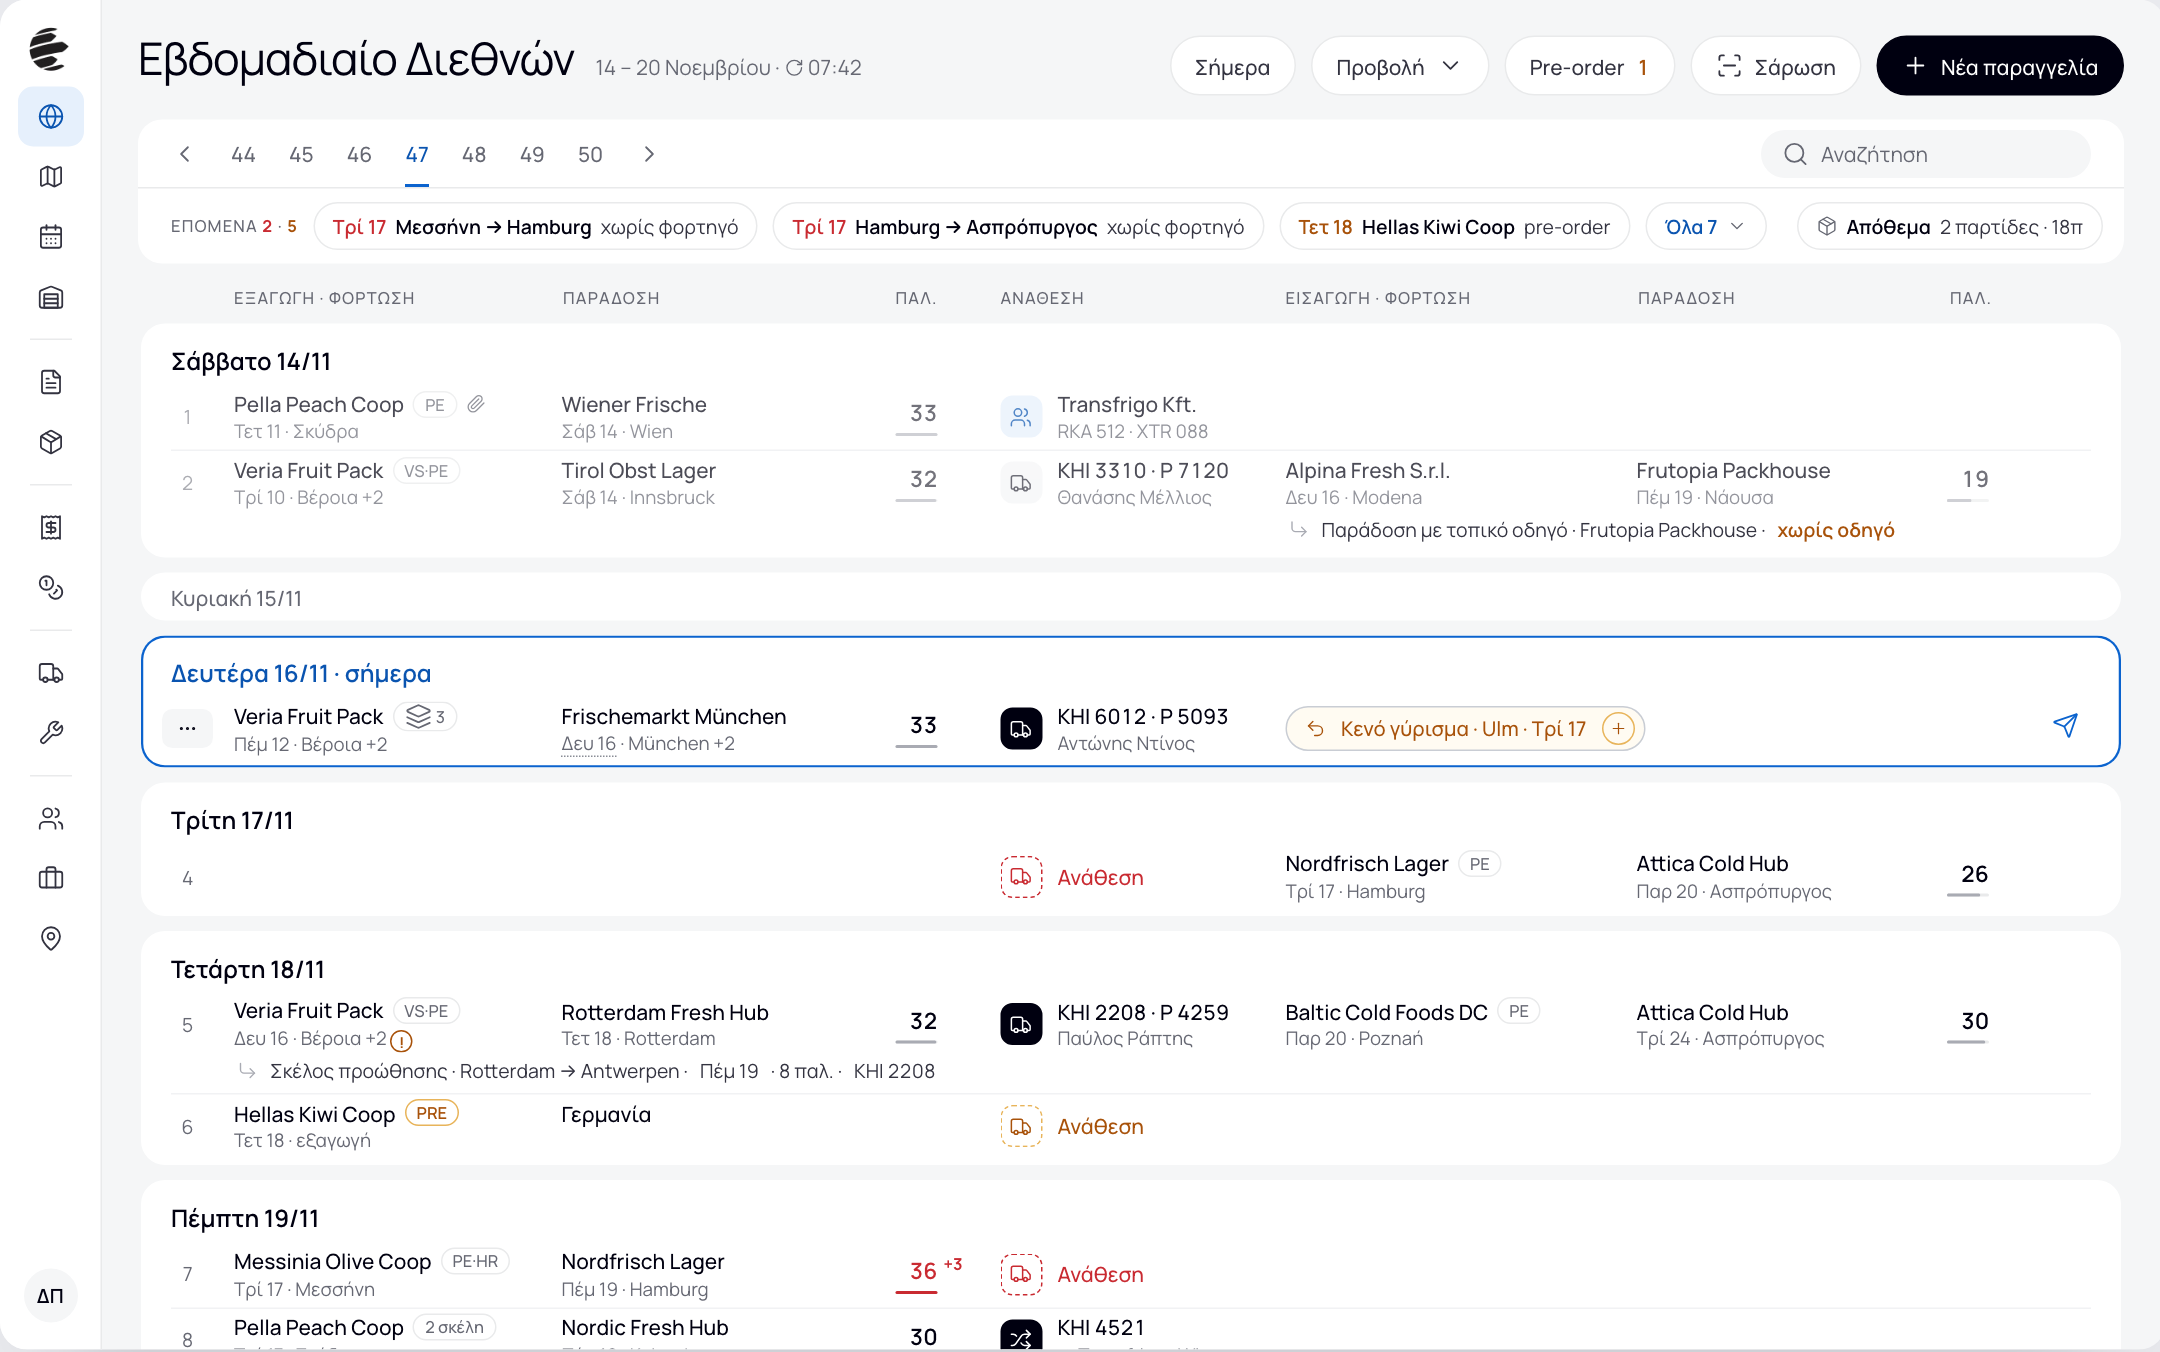
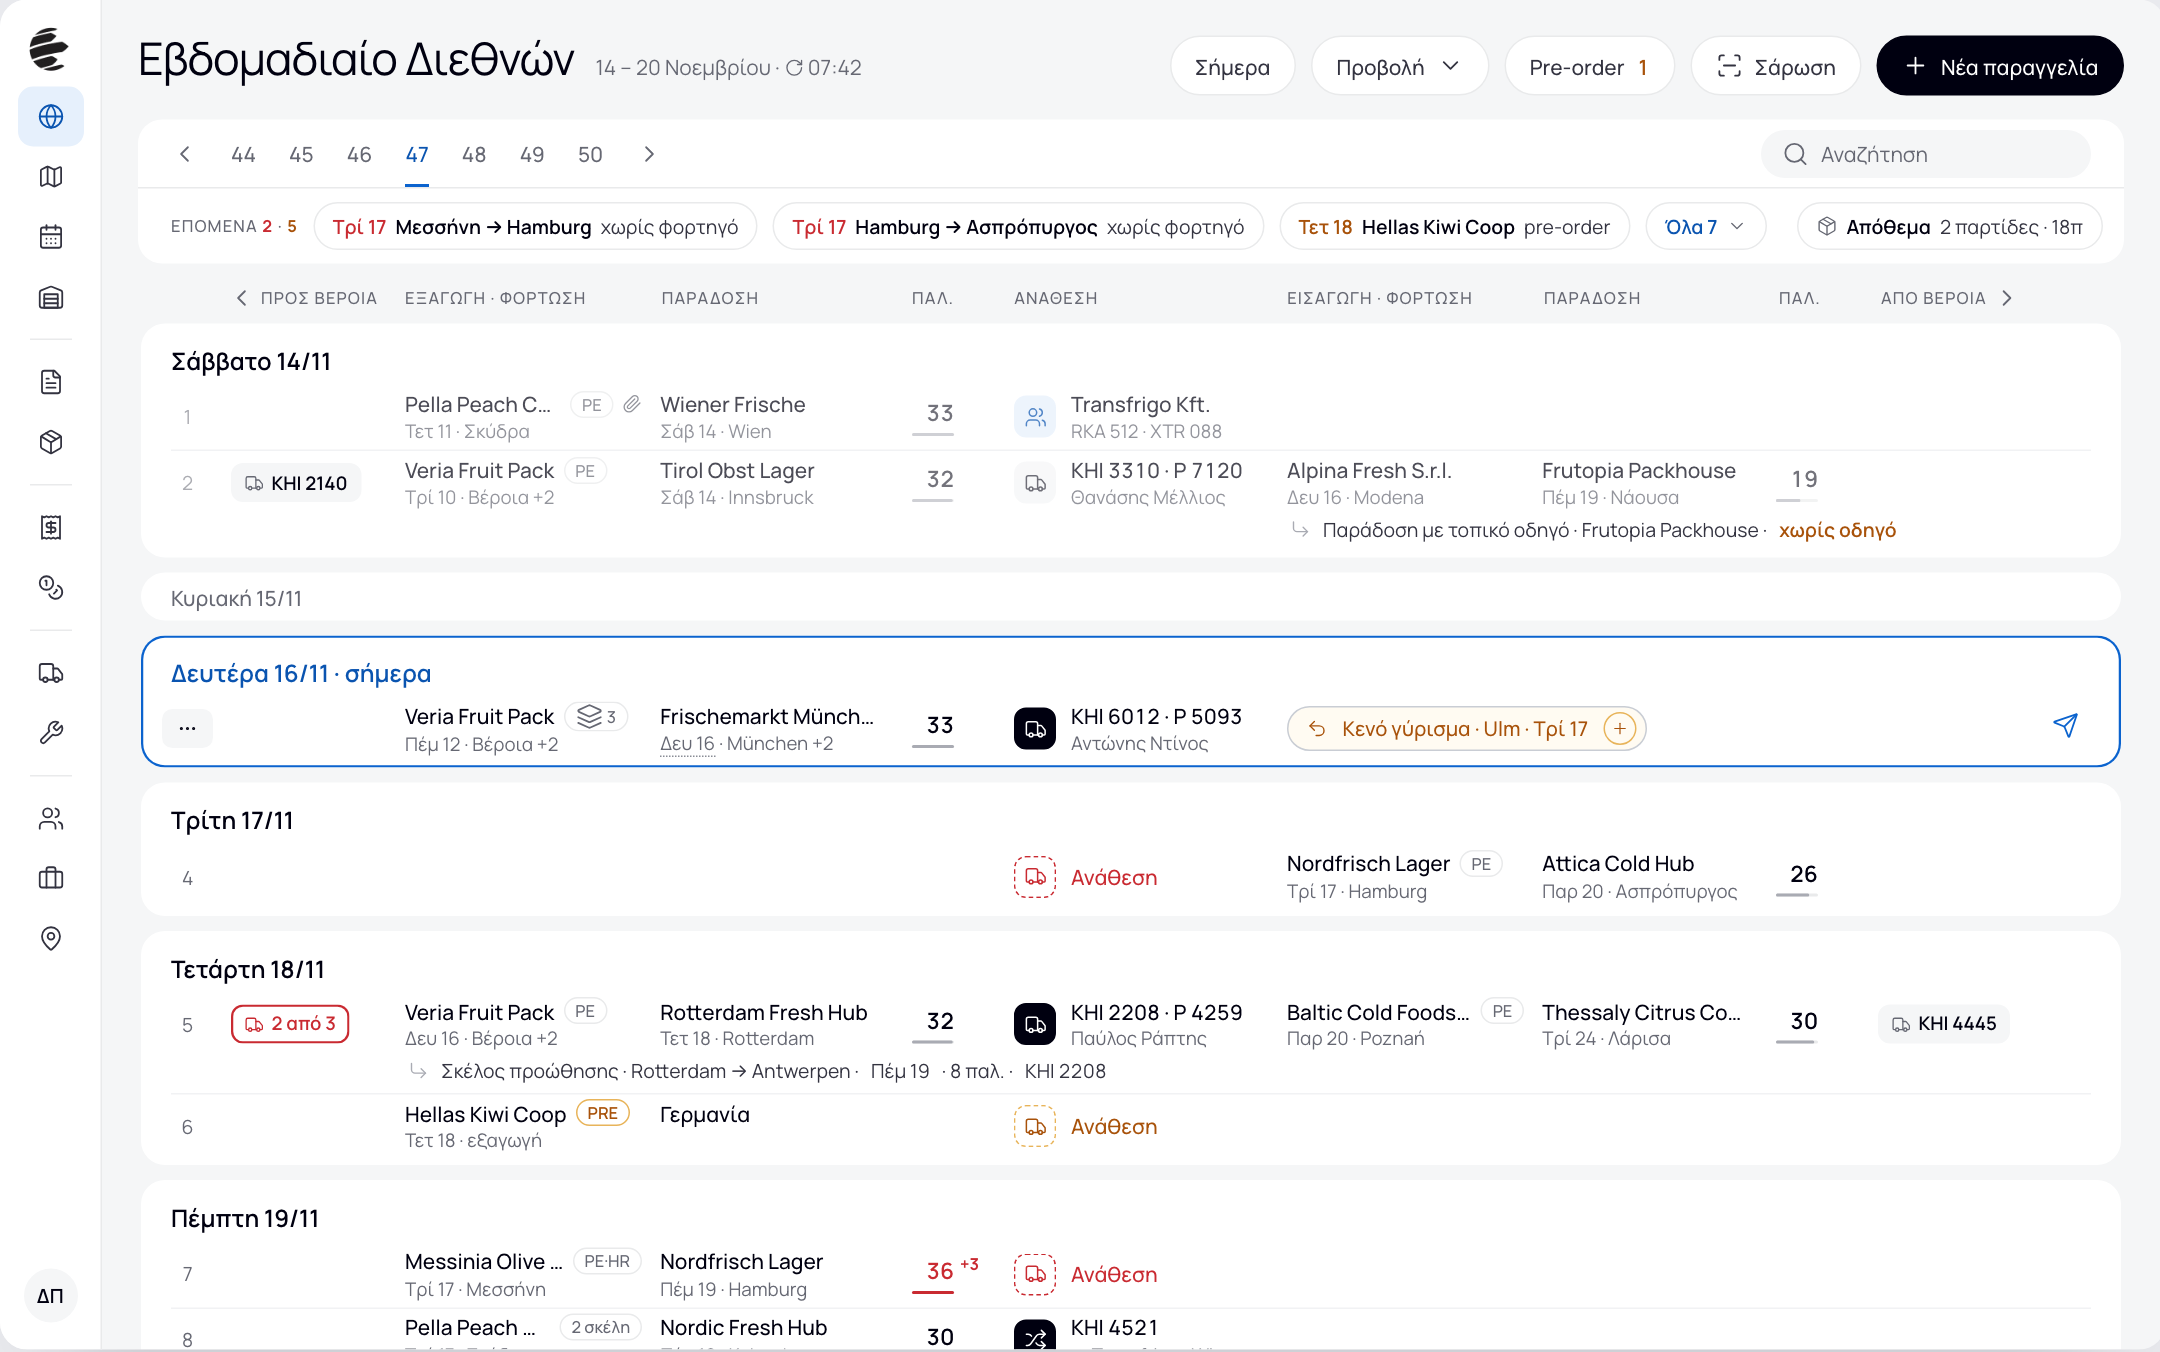
docs(redesign): the two Veroia columns stay on the international board; their tile opens the 'through Veroia' panel (owner 15/11)

diff --git a/docs/design/redesign-2026-11/index.html b/docs/design/redesign-2026-11/index.html
@@ -442,7 +442,8 @@ table.spec td b{color:var(--ink);font-weight:600}
 .vsl{display:grid;grid-template-columns:minmax(0,1.2fr) 28px minmax(0,1fr);gap:0 14px;align-items:start;padding:9px 0;border-top:1px solid var(--line);font-size:13.5px;margin-top:0}.vsl:first-of-type{margin-top:8px}
 .vsl b{font-weight:600;color:var(--ink);display:block;white-space:nowrap;overflow:hidden;text-overflow:ellipsis}.vsl>span.num{text-align:right;color:var(--ink);font-weight:500}.vsl small{white-space:nowrap}.vsl>span{color:var(--body)}.vsl small{display:block;color:var(--help);font-size:12.5px}
 .seg.sm b{height:28px;font-size:12.5px;padding:0 12px}
-#f5 .bh,#f5 .br{grid-template-columns:34px minmax(0,1.3fr) minmax(0,1.2fr) 76px 176px minmax(0,1.4fr) minmax(0,1.1fr) 76px 26px}
+#f5 .bh,#f5 .br{grid-template-columns:34px 104px minmax(0,1.3fr) minmax(0,1.2fr) 66px 170px minmax(0,1.3fr) minmax(0,1.1fr) 66px 104px 26px;gap:0 12px}
+.vch{display:inline-flex;align-items:center;gap:5px;height:26px;padding:0 9px;border-radius:8px;background:var(--bg);font-size:12.5px;font-weight:600;color:var(--ink);white-space:nowrap;cursor:pointer}.vch svg.lucide{width:13px;height:13px;color:var(--help)}.vch.r{background:none;box-shadow:inset 0 0 0 1.5px var(--red);color:var(--red)}.vch.r svg.lucide{color:var(--red)}
 .tile.am{background:none;border:1.5px dashed var(--amber-line);color:var(--amber)}
 .br.subr{min-height:30px;margin-top:-6px}.br.subr::before{display:none}.sub2{grid-column:span 3;display:flex;align-items:center;gap:8px;font-size:13px;color:var(--body);white-space:nowrap;padding-left:2px}.sub2 svg.lucide{width:14px;height:14px;color:#A9ABB3}
 .qi{display:flex;align-items:center;gap:12px;padding:7px 0;border-top:1px solid var(--line)}.qi>span{flex:1;min-width:0}.qi b{display:block;font-weight:600;color:var(--ink);font-size:13.5px;white-space:nowrap;overflow:hidden;text-overflow:ellipsis}.qi small{display:block;color:var(--help);font-size:12.5px}
@@ -941,13 +942,14 @@ $('f2').innerHTML=`<div class="app rail">${side('wn')}<main class="main">
 /* ---------- screen 5: weekly international (week 47). A row is one truck's work: export, who carries it, the import it returns with. Exports sit on their first delivery day, import-only rows on their loading day. ---------- */
 const E3='<span></span><span></span><span></span>',sd=(a,b,p)=>`${a}${b}<div class="pw">${P(p)}<span class="plus" style="visibility:hidden">${ic('plus')}</span></div>`;
 const vsg=t=>`<span class="tag" title="${t}">VS</span>`;
-const irow=([n,L,t,R,cls=''])=>`<div class="br ${cls}"><button class="no num" title="Μενού φορτίου">${cls.includes('hov')?ic('ellipsis'):n}</button>${L||E3}${t}${R||E3}<span class="send" title="Φύλλο οδηγού">${ic('send')}</span></div>`;
-const subr=(t,side)=>`<div class="br subr"><span></span>${side==='R'?E3+'<span></span>':''}<div class="sub2">${ic('corner-down-right')}${t}</div>${side==='R'?'':'<span></span>'+E3}<span></span></div>`;
+const vch=(t,r,tt)=>`<span class="vch ${r?'r':''}" title="${tt||'Μέσω Βέροιας: ποιος παίρνει κάθε φόρτωση'}">${ic('truck')}${t}</span>`;
+const irow=([n,L,t,R,cls='',nl='',nr=''])=>`<div class="br ${cls}"><button class="no num" title="Μενού φορτίου">${cls.includes('hov')?ic('ellipsis'):n}</button><span>${nl}</span>${L||E3}${t}${R||E3}<span>${nr}</span><span class="send" title="Φύλλο οδηγού">${ic('send')}</span></div>`;
+const subr=(t,side)=>`<div class="br subr"><span></span><span></span>${side==='R'?E3+'<span></span>':''}<div class="sub2">${ic('corner-down-right')}${t}</div>${side==='R'?'':'<span></span>'+E3}<span></span><span></span></div>`;
 // order inside a day as today: loads through Veroia last; a pre-order has no delivery day, so it sits on its loading day
 const WI=[
  ['Σάββατο 14/11','past',[
   [1,sd(`<div class="two"><b><span class="el">Pella Peach Coop</span>${tags('PE')}<span class="ico" style="margin-left:6px;color:var(--help)" title="Έγγραφα">${ic('paperclip')}</span></b><span>${d('Τετ 11')} · Σκύδρα</span></div>`,c2('Wiener Frische','',`${d('Σάβ 14')} · Wien`),33),trk('Transfrigo Kft.','RKA 512 · XTR 088','p'),''],
-  [2,sd(c2('Veria Fruit Pack','VS·PE',`${d('Τρί 10')} · Βέροια +2`),c2('Tirol Obst Lager','',`${d('Σάβ 14')} · Innsbruck`),32),trk('ΚΗΙ 3310 · Ρ 7120','Θανάσης Μέλλιος'),sd(c2('Alpina Fresh S.r.l.','',`${d('Δευ 16')} · Modena`),c2('Frutopia Packhouse','',`${d('Πέμ 19')} · Νάουσα`),19)],
+  [2,sd(c2('Veria Fruit Pack','PE',`${d('Τρί 10')} · Βέροια +2`),c2('Tirol Obst Lager','',`${d('Σάβ 14')} · Innsbruck`),32),trk('ΚΗΙ 3310 · Ρ 7120','Θανάσης Μέλλιος'),sd(c2('Alpina Fresh S.r.l.','',`${d('Δευ 16')} · Modena`),c2('Frutopia Packhouse','',`${d('Πέμ 19')} · Νάουσα`),19),'',vch('ΚΗΙ 2140')],
   ['sub','R',`Παράδοση με τοπικό οδηγό · Frutopia Packhouse · <b style="color:var(--amber);font-weight:600">χωρίς οδηγό</b>`],
  ]],
  ['Κυριακή 15/11','none',[]],
@@ -958,7 +960,7 @@ const WI=[
   [4,'',`<div class="as" title="Σύρε την εισαγωγή πάνω σε φορτηγό" style="cursor:grab"><span class="tile need">${ic('truck')}</span><div class="two"><b style="color:var(--red)">Ανάθεση</b></div></div>`,sd(c2('Nordfrisch Lager','PE',`${d('Τρί 17')} · Hamburg`),c2('Attica Cold Hub','',`${d('Παρ 20')} · Ασπρόπυργος`),26),'need'],
  ]],
  ['Τετάρτη 18/11','',[
-  [5,sd(c2('Veria Fruit Pack','VS·PE',`${d('Δευ 16')} · Βέροια +2 <i class="nb a" style="width:15px;height:15px;font-size:10px;vertical-align:-2px" data-t="Μέσω Βέροιας: ένα σημείο φόρτωσης δεν έχει φορτηγό.">!</i>`),c2('Rotterdam Fresh Hub','',`${d('Τετ 18')} · Rotterdam`),32),trk('ΚΗΙ 2208 · Ρ 4259','Παύλος Ράπτης'),sd(c2('Baltic Cold Foods DC','PE',`${d('Παρ 20')} · Poznań`),c2('Attica Cold Hub','',`${d('Τρί 24')} · Ασπρόπυργος`),30)],
+  [5,sd(c2('Veria Fruit Pack','PE',`${d('Δευ 16')} · Βέροια +2`),c2('Rotterdam Fresh Hub','',`${d('Τετ 18')} · Rotterdam`),32),trk('ΚΗΙ 2208 · Ρ 4259','Παύλος Ράπτης'),sd(c2('Baltic Cold Foods DC','PE',`${d('Παρ 20')} · Poznań`),c2('Thessaly Citrus Coop','',`${d('Τρί 24')} · Λάρισα`),30),'',vch('2 από 3',1,'Μέσω Βέροιας: ένα σημείο φόρτωσης χωρίς φορτηγό'),vch('ΚΗΙ 4445')],
   ['sub','L',`Σκέλος προώθησης · Rotterdam → Antwerpen · ${d('Πέμ 19')} · 8 παλ. · <span class="num">ΚΗΙ 2208</span>`],
   [6,`<div class="two"><b><span class="el">Hellas Kiwi Coop</span><span class="tag" style="color:var(--amber);border-color:var(--amber-line);font-weight:600" title="Pre-order: λείπουν τόποι και παλέτες">PRE</span></b><span>${d('Τετ 18')} · εξαγωγή</span></div>${c2('Γερμανία','','&nbsp;')}<span></span>`,`<div class="as" title="Κράτησε φορτηγό για το pre-order"><span class="tile am">${ic('truck')}</span><div class="two"><b style="color:var(--amber);font-weight:500">Ανάθεση</b></div></div>`,''],
  ]],
@@ -974,7 +976,7 @@ $('f5').innerHTML=`<div class="app rail">${side('wi')}<main class="main">
  <div class="card" style="border-radius:16px"><div class="wk">${ic('chevron-left')}<a>44</a><a>45</a><a>46</a><a class="on">47</a><a>48</a><a>49</a><a>50</a>${ic('chevron-right')}<span class="sp"></span><div class="q" style="margin:6px 0 6px 10px" title="Φορτηγό, οδηγός, συνεργάτης, πελάτης, τόπος · / για αναζήτηση, Enter για το επόμενο">${ic('search')}Αναζήτηση</div></div>
   <div class="nx"><span class="lbl" style="white-space:nowrap">Επόμενα <b style="color:var(--red)" title="Επείγοντα">2</b> · <b style="color:var(--amber)" title="Θέλουν προσοχή">5</b></span>
    <span class="chip"><span style="color:var(--red);font-weight:600">Τρί 17</span> <b>Μεσσήνη → Hamburg</b> χωρίς φορτηγό</span><span class="chip"><span style="color:var(--red);font-weight:600">Τρί 17</span> <b>Hamburg → Ασπρόπυργος</b> χωρίς φορτηγό</span><span class="chip"><span style="color:var(--amber);font-weight:600">Τετ 18</span> <b>Hellas Kiwi Coop</b> pre-order</span><span class="chip" style="color:var(--link);font-weight:600">Όλα 7${ic('chevron-down')}</span><span class="sp"></span><span class="chip">${ic('package')}<b>Απόθεμα</b> 2 παρτίδες · 18π</span></div></div>
- <div class="bh lbl"><span></span><span style="padding-left:2px">Εξαγωγή · φόρτωση</span><span style="padding-left:2px">Παράδοση</span><span style="text-align:right;padding-right:28px">Παλ.</span><span>Ανάθεση</span><span>Εισαγωγή · φόρτωση</span><span>Παράδοση</span><span style="text-align:right;padding-right:28px">Παλ.</span><span></span></div>
+ <div class="bh lbl"><span></span><span title="Δίπλωσε τη στήλη" style="display:flex;align-items:center;gap:4px;cursor:pointer">${ic('chevron-left')}Προς Βέροια</span><span style="padding-left:2px">Εξαγωγή · φόρτωση</span><span style="padding-left:2px">Παράδοση</span><span style="text-align:right;padding-right:28px">Παλ.</span><span>Ανάθεση</span><span>Εισαγωγή · φόρτωση</span><span>Παράδοση</span><span style="text-align:right;padding-right:28px">Παλ.</span><span title="Δίπλωσε τη στήλη" style="display:flex;align-items:center;gap:4px;cursor:pointer">Από Βέροια${ic('chevron-right')}</span><span></span></div>
  <div style="flex:1;min-height:0;overflow:hidden;margin-top:-10px;padding:0 2px">${WI.map(([t,c,rows])=>`<section class="day ${c}"><h3>${t}</h3>${rows.map(irows).join('')}</section>`).join('')}</div></main></div>`;
 
 /* ---------- screen 3: order form, a sheet over the page. Every control of today's form (orders_intl.js) has a place here. ---------- */

diff --git a/docs/design/redesign-2026-11/parity/README.md b/docs/design/redesign-2026-11/parity/README.md
@@ -47,7 +47,7 @@
 1. Το «Μέσω Βέροιας» ανά σημείο φόρτωσης. **Owner 15/11: ναι.** Θέλει στοιχεία που ο πίνακας δεν διαβάζει σήμερα.
 2. Τιμή ανά παραγγελία στη σύνοψη του groupage. **Owner 15/11: ναι.**
 3. Πάνω από 33 παλέτες με κόκκινο. **Owner 15/11: ναι**, κόκκινο και στους δύο πίνακες.
-4. Οι στήλες «Προς Βέροια» και «Από Βέροια» έγιναν ετικέτα με πάνελ. **Ανοιχτό:** ο owner θέλει να το δει πριν αποφασίσει.
+4. ~~Ετικέτα με πάνελ αντί για τις στήλες Βέροιας.~~ **Owner 15/11: «Δύο στήλες».** Οι στήλες «Προς Βέροια» και «Από Βέροια» μένουν στον πίνακα, όπως σήμερα, και διπλώνουν. Το πλακίδιό τους δείχνει το φορτηγό του εθνικού σκέλους (ή «2 από 3» με κόκκινο όταν λείπει φορτηγό) και ανοίγει το πάνελ «Μέσω Βέροιας» με κάθε σημείο φόρτωσης.
 5. «Φύλλο οδηγού» αντί για «Εκτύπωση / WhatsApp». **Owner 15/11: ναι.** (Η λέξη «groupage» μένει.)
 
 ## Παραγγελίες (λίστα και κάρτα)
